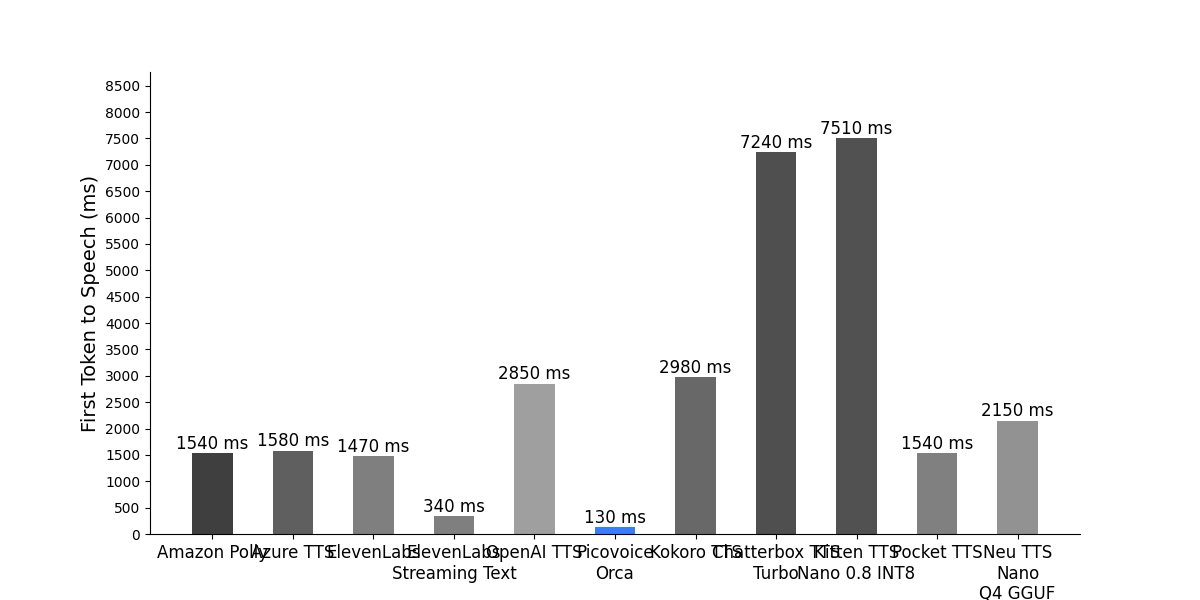
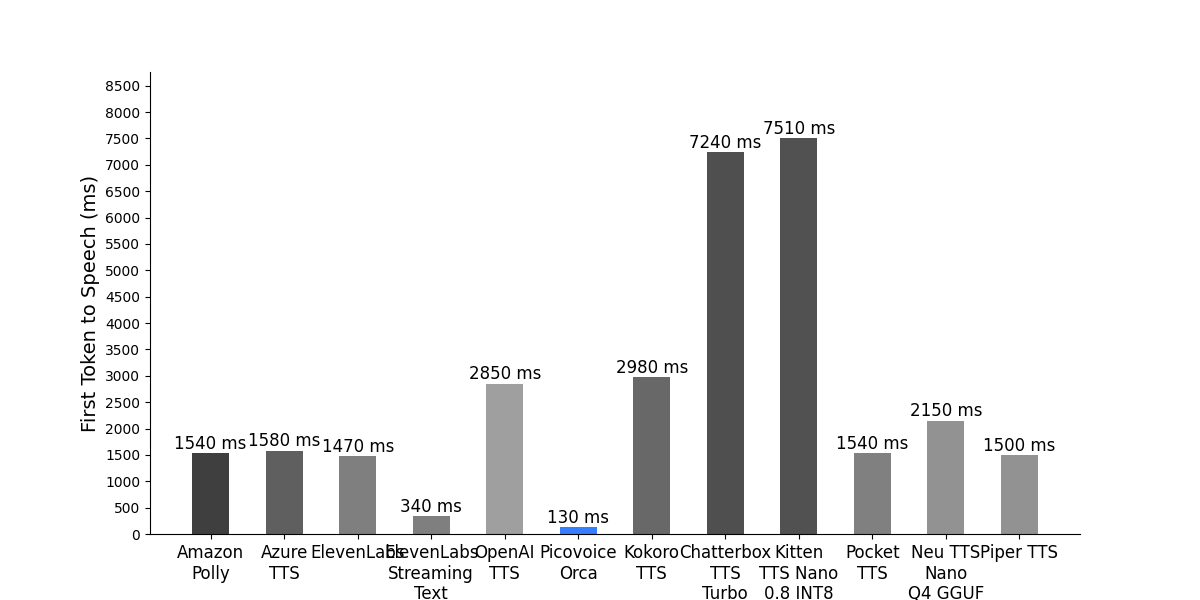
Added result for Piper-TTS.

Changed region(s): [[0.1233, 0.18, 0.8942, 1.0]]

diff --git a/plot_results.py b/plot_results.py
@@ -37,16 +37,16 @@ COLOR_NEU_TTS_NANO_Q4_GGUF = rgb_from_hex("#929292")
 COLOR_PIPER_TTS = rgb_from_hex("#929292")
 
 ENGINE_PRINT_NAMES = {
-    Synthesizers.AMAZON_POLLY: 'Amazon Polly',
-    Synthesizers.AZURE_TTS: 'Azure TTS',
+    Synthesizers.AMAZON_POLLY: 'Amazon\nPolly',
+    Synthesizers.AZURE_TTS: 'Azure\nTTS',
     Synthesizers.ELEVENLABS: 'ElevenLabs',
-    Synthesizers.ELEVENLABS_WEBSOCKET: 'ElevenLabs\nStreaming Text',
-    Synthesizers.OPENAI_TTS: 'OpenAI TTS',
+    Synthesizers.ELEVENLABS_WEBSOCKET: 'ElevenLabs\nStreaming\nText',
+    Synthesizers.OPENAI_TTS: 'OpenAI\nTTS',
     Synthesizers.PICOVOICE_ORCA: 'Picovoice\nOrca',
-    Synthesizers.KOKORO_TTS: "Kokoro TTS",
-    Synthesizers.CHATTERBOX_TTS_TURBO: "Chatterbox TTS\nTurbo",
-    Synthesizers.KITTEN_TTS: "Kitten TTS\nNano 0.8 INT8",
-    Synthesizers.POCKET_TTS: "Pocket TTS",
+    Synthesizers.KOKORO_TTS: "Kokoro\nTTS",
+    Synthesizers.CHATTERBOX_TTS_TURBO: "Chatterbox\nTTS\nTurbo",
+    Synthesizers.KITTEN_TTS: "Kitten\nTTS Nano\n0.8 INT8",
+    Synthesizers.POCKET_TTS: "Pocket\nTTS",
     Synthesizers.NEU_TTS_NANO_Q4_GGUF: "Neu TTS\nNano\nQ4 GGUF",
     Synthesizers.PIPER_TTS: "Piper TTS",
 }
